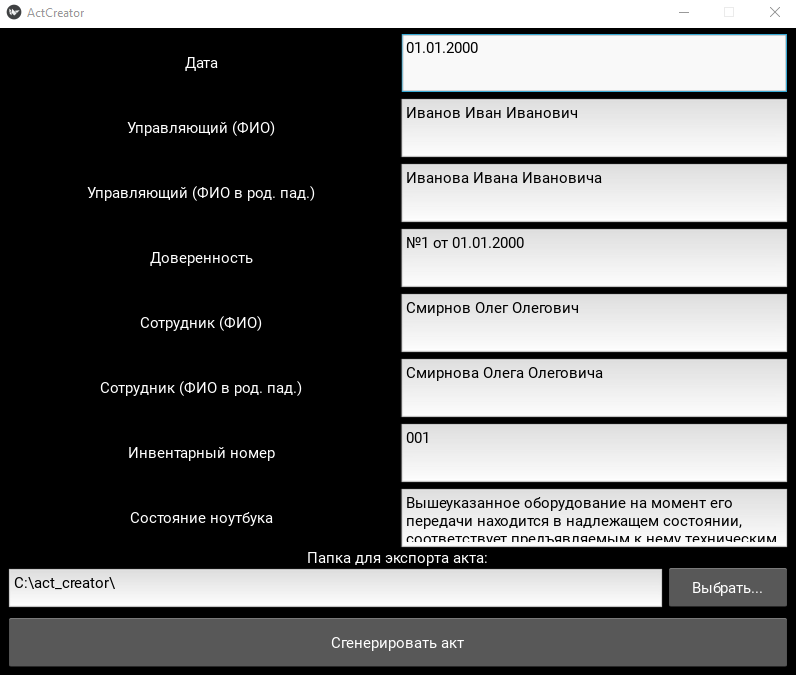
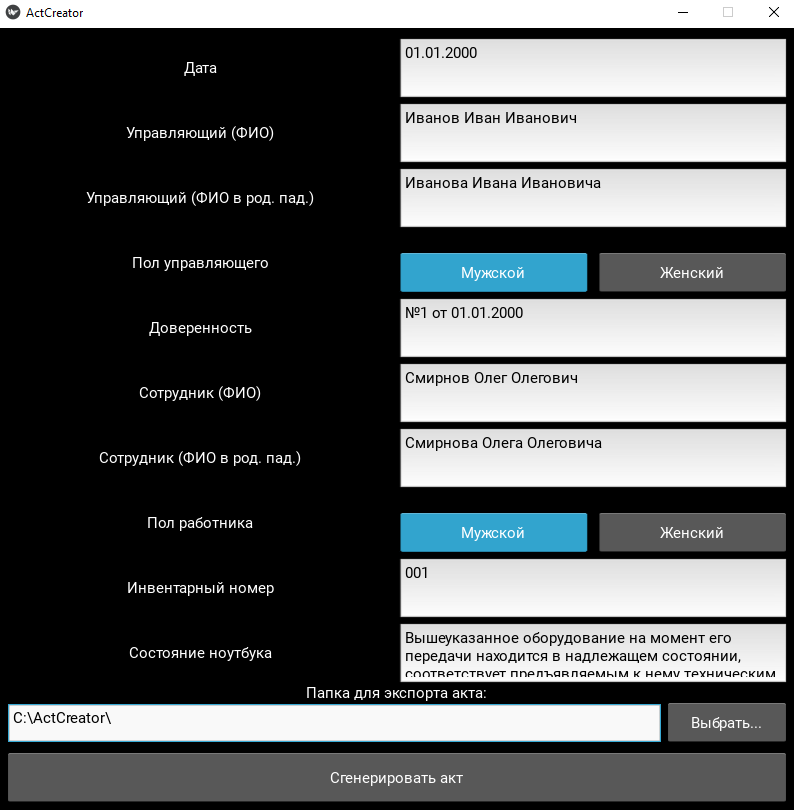
realized mananger and employee gender, take out console when start executing file

diff --git a/main.py b/main.py
@@ -21,7 +21,7 @@ Builder.load_file("actcreator.kv")
 
 # resolution
 Config.set('graphics', 'width', '800')
-Config.set('graphics', 'height', '650')
+Config.set('graphics', 'height', '785')
 Config.set('graphics', 'resizable', False)
 
 
@@ -31,9 +31,11 @@ class ActCreatorRoot(BoxLayout):
     config.read('assets\config.ini', encoding='utf-8')
     manager_name = config['data']['manager_name']
     manager_name_gen = config['data']['manager_name_gen']
+    manager_gender = StringProperty("male")
     power_of_attorney = config['data']['power_of_attorney']
     employee_name = config['data']['employee_name']
     employee_name_gen = config['data']['employee_name_gen']
+    employee_gender = StringProperty("male")
     inv_num = config['data']['inv_num']
     laptop_condition = config['data']['laptop_condition']
 
@@ -108,14 +110,26 @@ class ActCreatorRoot(BoxLayout):
         ram_ws = sys_info.get('RAM')
         ram_type_ws = sys_info.get('RAM_TYPE')
 
+        if self.manager_gender == "male":
+            manager_word = "действующего"
+        else:
+            manager_word = "действующей"
+
+        if self.employee_gender == "male":
+            employee_word = "именуемый"
+        else:
+            employee_word = "именуемая"
+
         replacements = {
             '{DATE}': date,
             '{DATE_READABLE}': date_readable,
             '{MANAGER}': manager,
             '{MANAGER_GEN}': manager_gen,
+            '{MANAGER_WORD}': manager_word,
             '{PROXY}': proxy,
             '{EMPLOYEE}': employee,
             '{EMPLOYEE_GEN}': employee_gen,
+            '{EMPLOYEE_WORD}': employee_word,
             '{CONDITION}': condition,
             '{LAPTOP_MODEL}': sys_info.get('model', ''),
             '{SERIAL}': sys_info.get('serial', ''),

diff --git a/README.md b/README.md
@@ -3,5 +3,5 @@ Kivy GUI-приложение для автоматического состав
 ________________________________
 Screenshots:
 <br>
-<p><img src="screenshots/screen_1.png"></img>
-<p><img src="screenshots/screen_2.png"></img>
+<p><img src="assets/screen_1.png"></img>
+<p><img src="assets/screen_2.png"></img>
